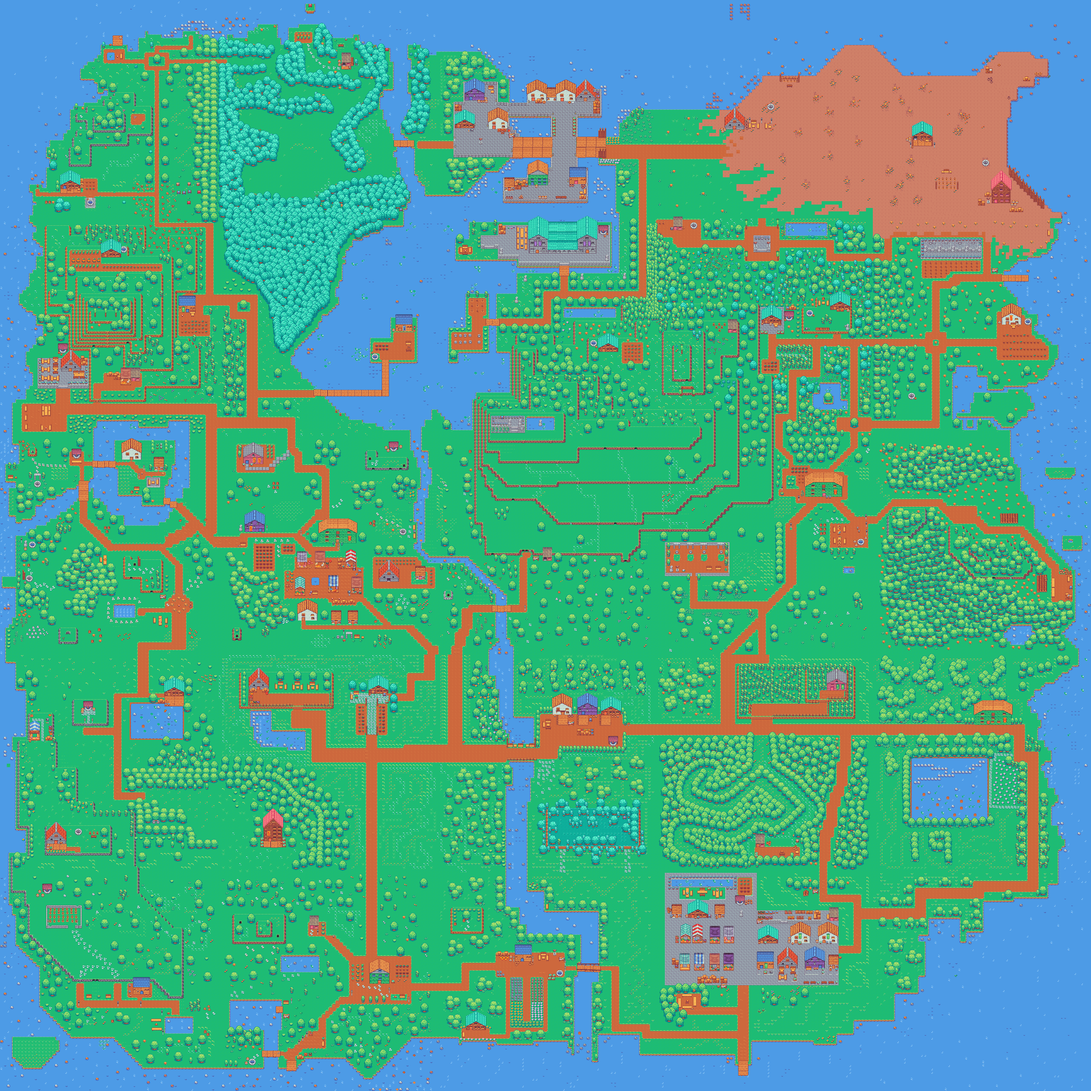
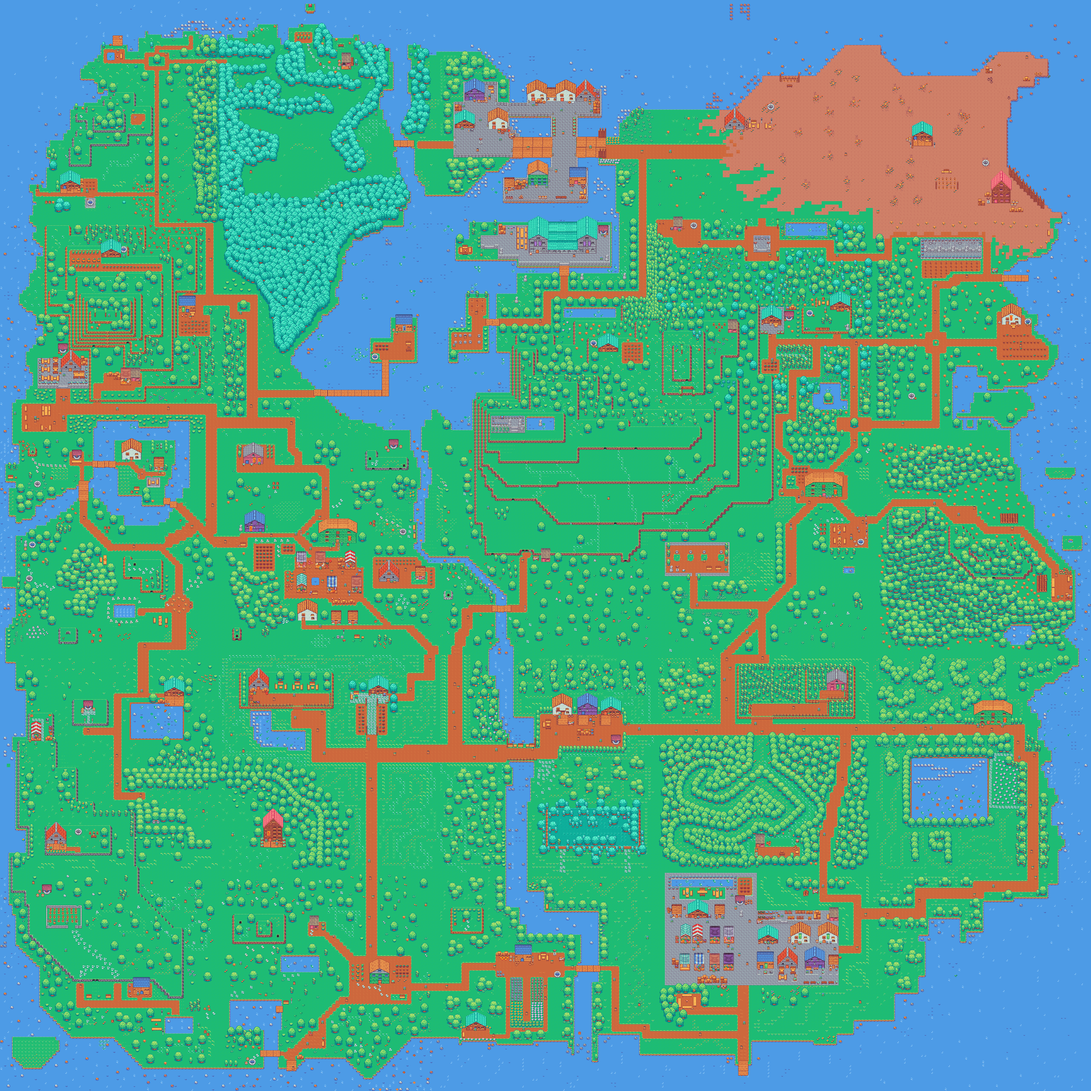
Fixed bug in worldmapdrawer

diff --git a/src/utilities/WorldMapDrawer.java b/src/utilities/WorldMapDrawer.java
@@ -1,6 +1,7 @@
 package utilities;
 
 import core.Vector2D;
+import entity.NPC;
 import entity.Scenery;
 import map.GameMap;
 import settings.Settings;
@@ -50,7 +51,8 @@ public class WorldMapDrawer {
             List<Scenery> scenery = maps.get(mapNumber).getSceneryList();
 
             drawScenery(lengthOfOneMap, g, x1, y1, minimapRatio, spriteSizeOnMinimap, pixelOffset, scenery);
-
+            drawNPCs(lengthOfOneMap, g, x1, y1, minimapRatio, spriteSizeOnMinimap, pixelOffset,
+                    maps.get(mapNumber).getNPCList());
         }
 
 
@@ -95,7 +97,21 @@ public class WorldMapDrawer {
                     null);
         });
 
-        saveToFile(mapImage, "./" + mapName.substring(0, mapName.length() - 4) + ".png");
+        List<NPC> npcs = gameMap.getNPCList();
+
+        npcs.stream().forEach(npc -> {
+            Vector2D positionWithOffset = npc.getPosition().getCopy();
+            positionWithOffset.subtract(npc.getRenderOffset());
+            positionWithOffset.add(pixelOffset);
+
+            g.drawImage(
+                    getScaledSprite(npc.getSprite(), minimapRatio),
+                    (int) Math.round(positionWithOffset.getX() / Settings.getTileSize() * spriteSizeOnMinimap + pixelOffset.getX()),
+                    (int) Math.round(positionWithOffset.getY() / Settings.getTileSize() * spriteSizeOnMinimap + pixelOffset.getY()),
+                    null);
+        });
+
+        saveToFile(mapImage, "./" + mapName + ".png");
 
         g.dispose();
     }
@@ -125,6 +141,23 @@ public class WorldMapDrawer {
         int finalX = x1;
         int finalY = y1;
         scenery.stream().forEach(gameObject -> {
+            Vector2D positionWithOffset = gameObject.getPosition().getCopy();
+            positionWithOffset.subtract(gameObject.getRenderOffset());
+            positionWithOffset.add(pixelOffset);
+
+            g.drawImage(
+                    getScaledSprite(gameObject.getSprite(), minimapRatio),
+                    (int) Math.round(finalX * lengthOfOneMap + positionWithOffset.getX() / Settings.getTileSize() * spriteSizeOnMinimap + pixelOffset.getX()),
+                    (int) Math.round(finalY * lengthOfOneMap + positionWithOffset.getY() / Settings.getTileSize() * spriteSizeOnMinimap + pixelOffset.getY()),
+                    null);
+        });
+    }
+
+    private static void drawNPCs(int lengthOfOneMap, Graphics2D g, int x1, int y1, double minimapRatio,
+                              int spriteSizeOnMinimap, Vector2D pixelOffset, List<NPC> npcs) {
+        int finalX = x1;
+        int finalY = y1;
+        npcs.stream().forEach(gameObject -> {
             Vector2D positionWithOffset = gameObject.getPosition().getCopy();
             positionWithOffset.subtract(gameObject.getRenderOffset());
             positionWithOffset.add(pixelOffset);
